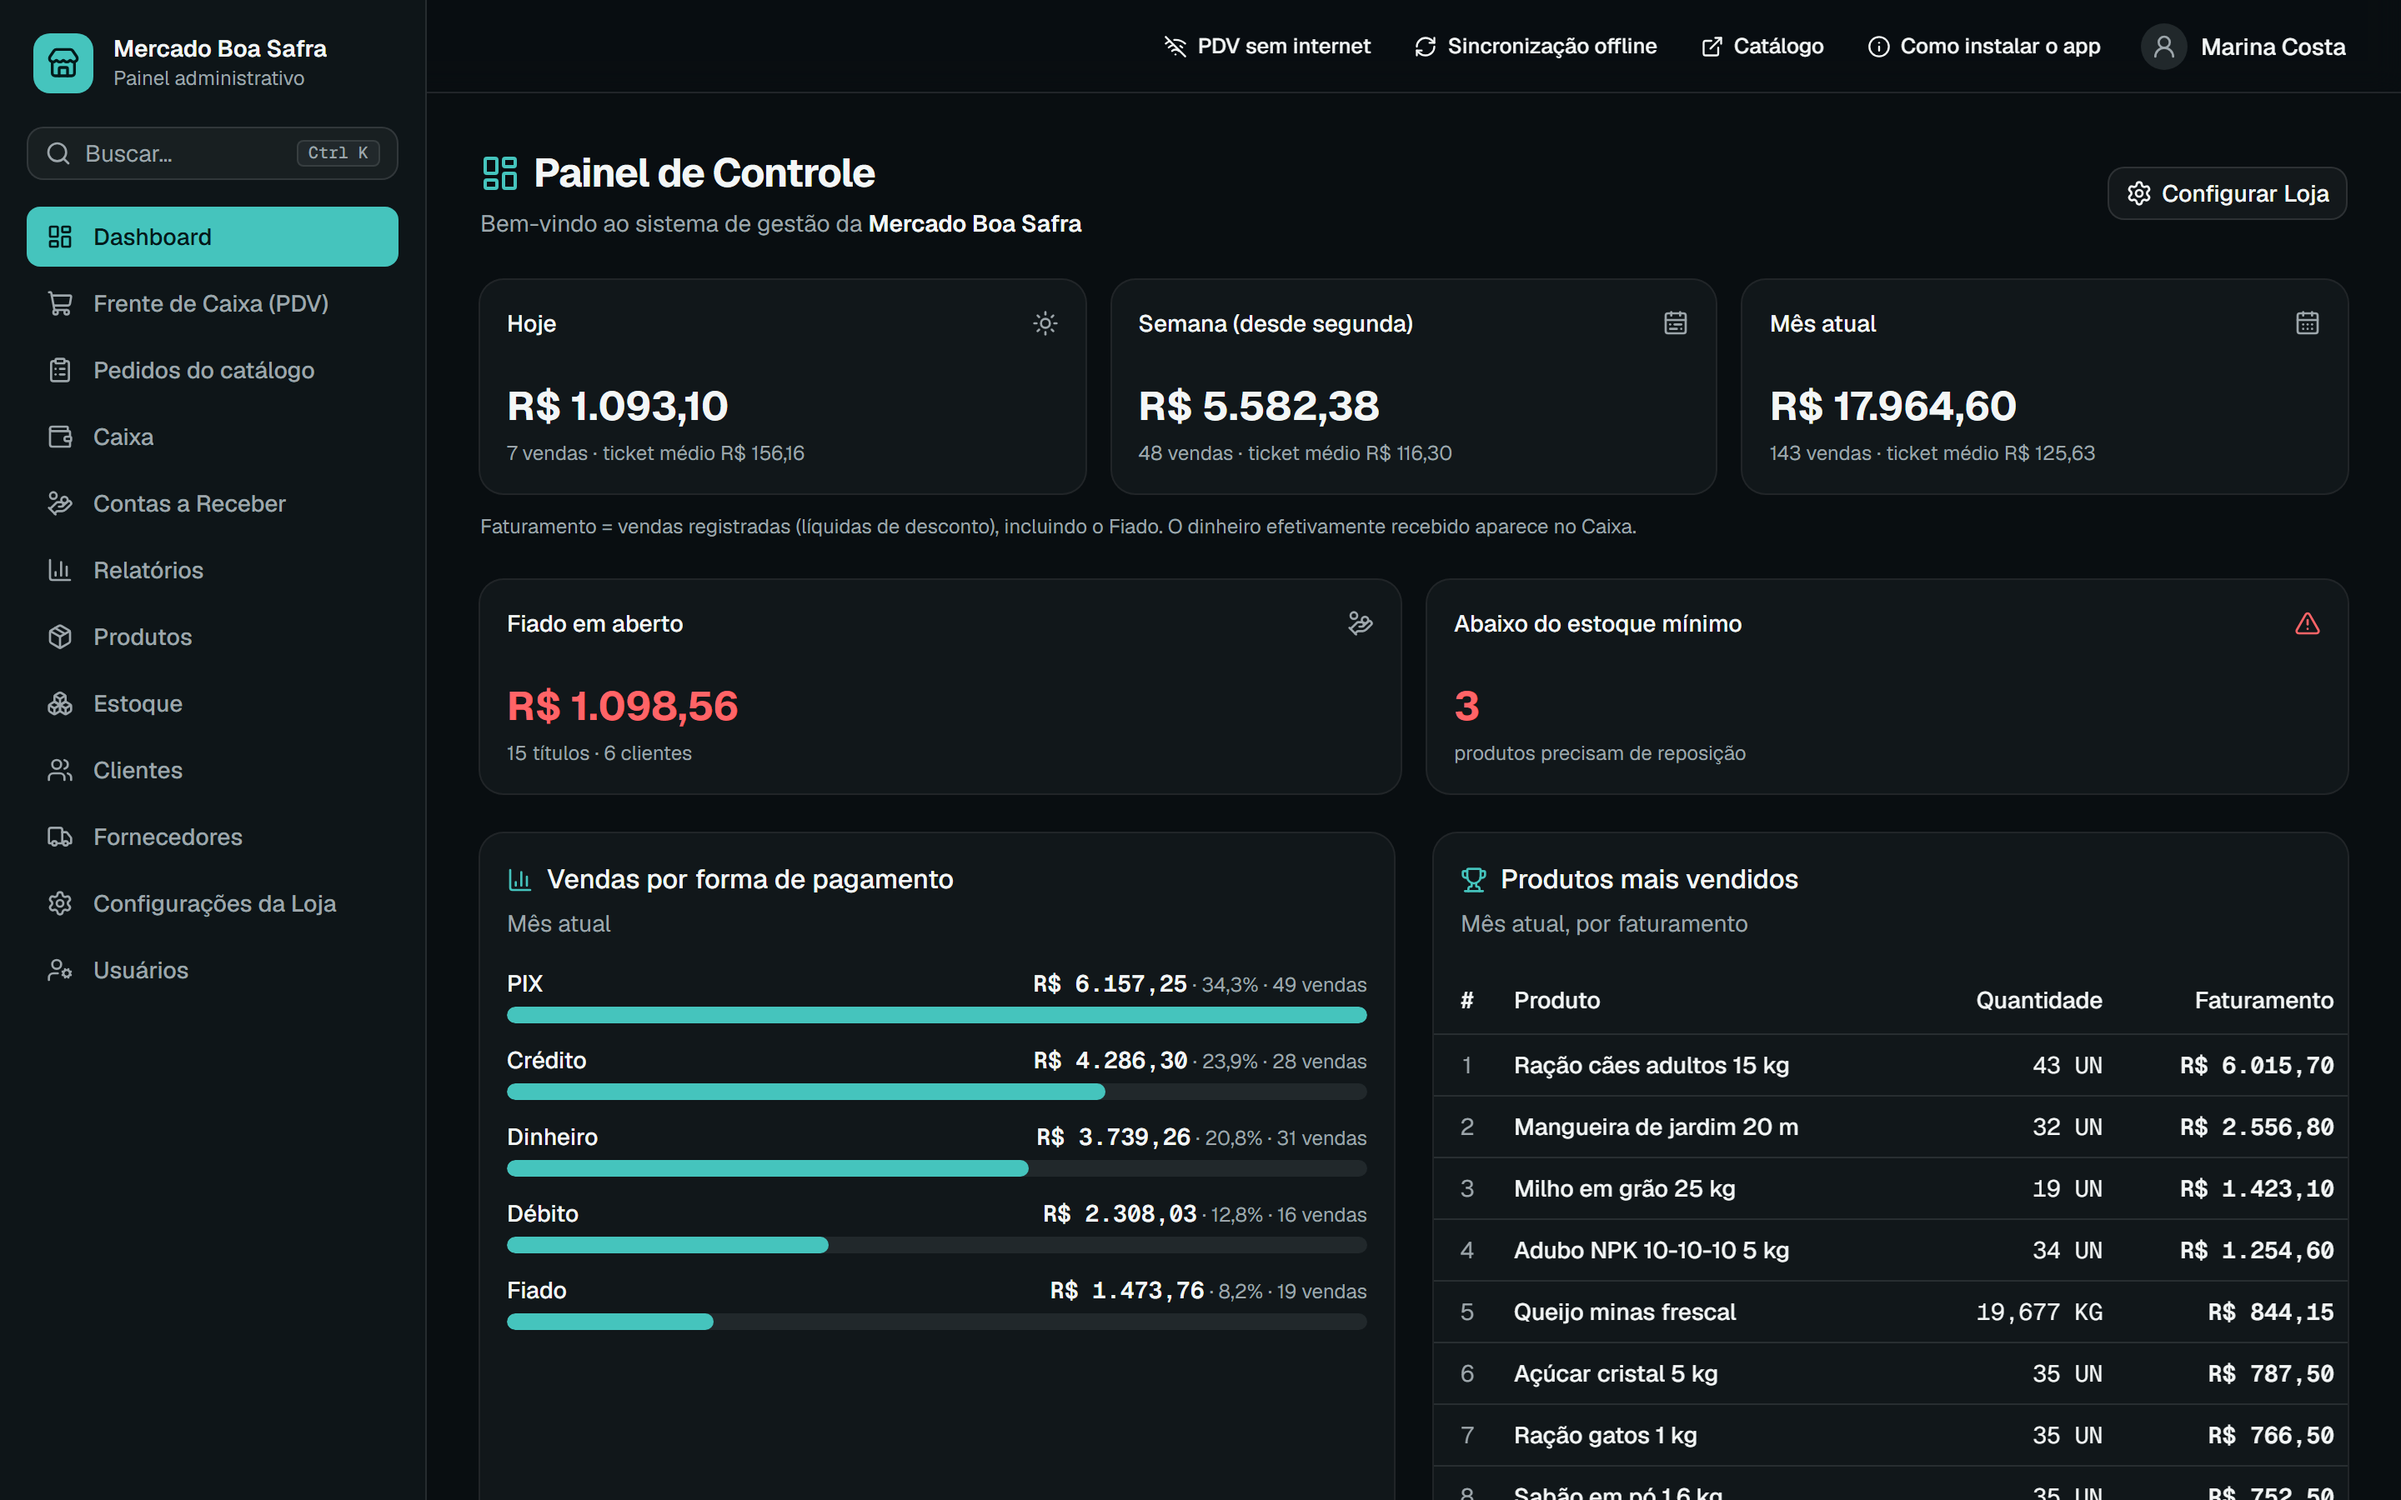
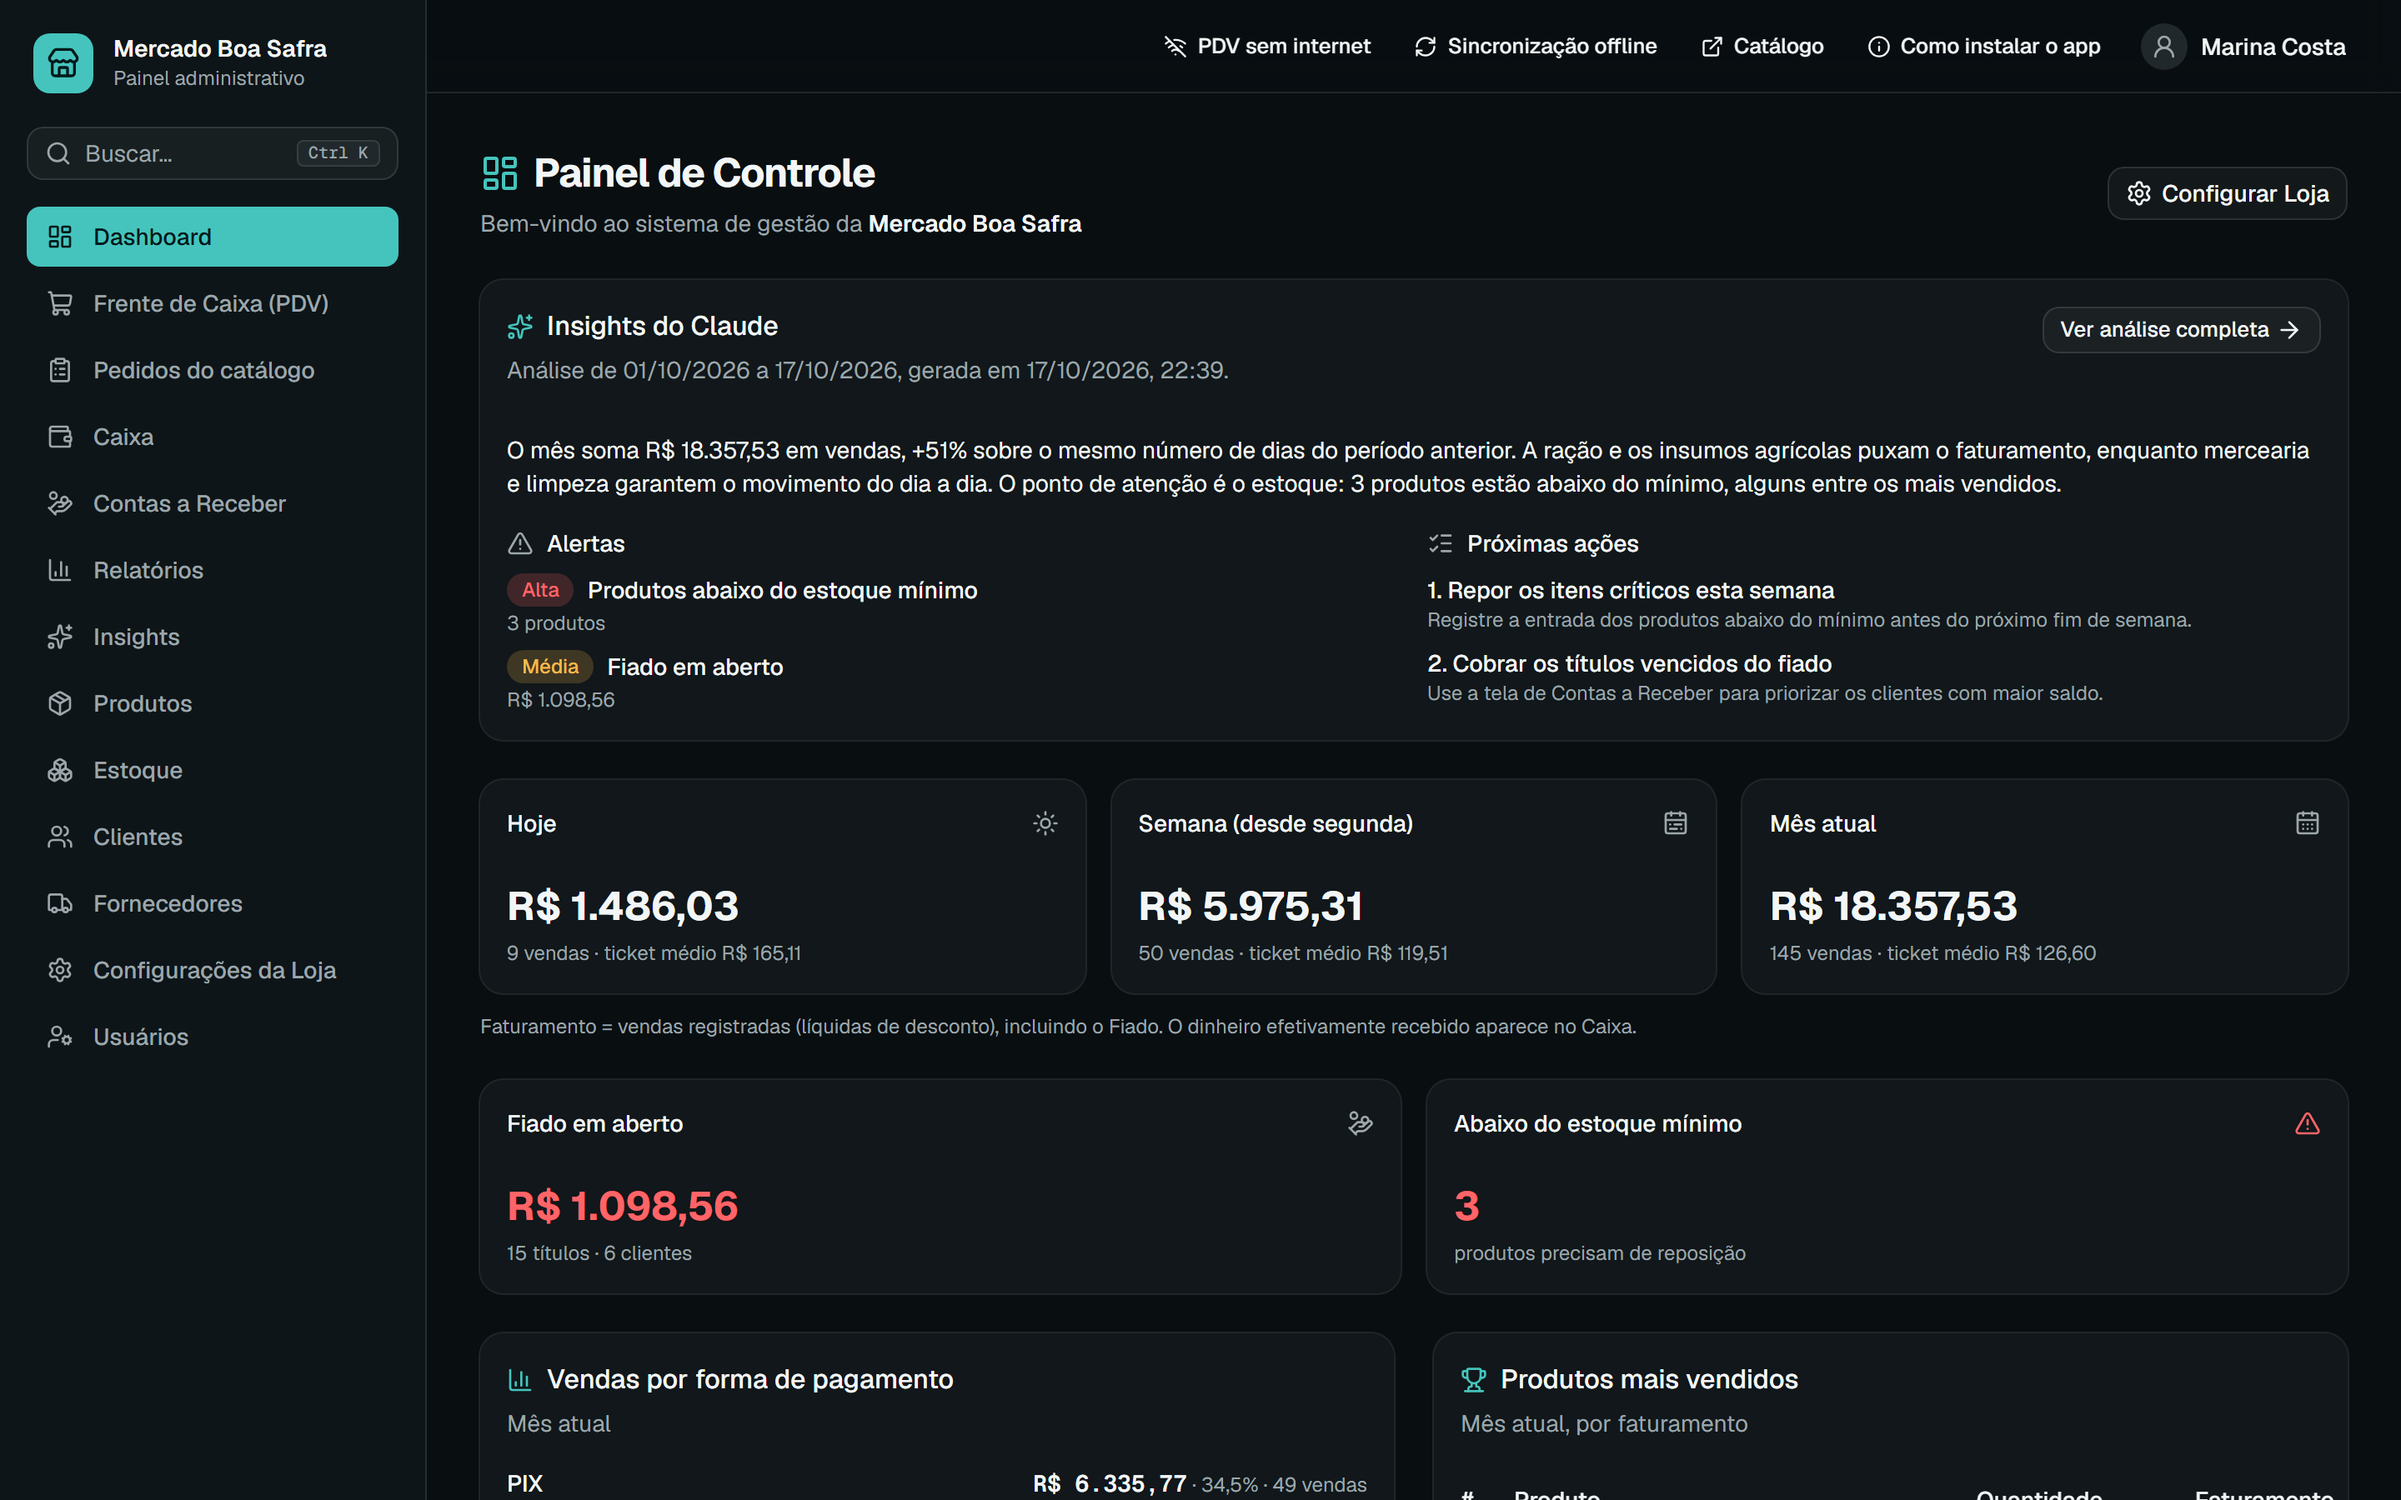
feat(landing): insights com IA (Claude) nas funcionalidades e no FAQ
- Nova linha "Insights com IA" com captura real da tela de Insights
  (resumo, alertas, destaques, oportunidades e ações sugeridas)
- Perfil Gerente e FAQ citam os insights; o FAQ explica a chave da loja,
  o custo estimado e que o Claude só recebe números agregados
- Seed da demonstração grava um relatório coerente com os números da loja
  (chave fictícia, nenhuma chamada ao Claude); capturas refeitas para
  incluir o menu Insights e o cartão de insights do Dashboard

diff --git a/tests/screenshots/support/showcase.ts b/tests/screenshots/support/showcase.ts
@@ -631,6 +631,142 @@ export async function seedShowcase() {
       },
     });
   }
+
+  await seedInsightReport(admin.id);
 }
 
-/** Tema fixo antes de qualquer script da página (next-themes lê o localStorage). */
+const brl = (value: number) =>
+  value.toLocaleString("pt-BR", { style: "currency", currency: "BRL" });
+const pct = (value: number) =>
+  `${value >= 0 ? "+" : ""}${value.toLocaleString("pt-BR", { maximumFractionDigits: 1 })}%`;
+
+/** Dia da loja ("YYYY-MM-DD") no fuso de São Paulo. */
+const dayKey = (date: Date) =>
+  new Intl.DateTimeFormat("en-CA", { timeZone: "America/Sao_Paulo" }).format(date);
+
+/**
+ * Relatório de insights (issue #113) do mês atual, como o Claude grava em BusinessInsight. Os
+ * números saem do próprio seed; a chave da API é fictícia (só marca a loja como configurada, nenhuma
+ * chamada é feita).
+ */
+async function seedInsightReport(userId: string) {
+  const now = new Date();
+  const monthStart = new Date(now.getFullYear(), now.getMonth(), 1);
+  const span = now.getTime() - monthStart.getTime();
+  const previousStart = new Date(monthStart.getTime() - span);
+  const sum = async (from: Date, to: Date) =>
+    Number(
+      (
+        await db.sale.aggregate({
+          where: { occurredAt: { gte: from, lt: to }, reversedAt: null },
+          _sum: { total: true },
+          _count: true,
+        })
+      )._sum.total ?? 0,
+    );
+  const [current, previous] = await Promise.all([
+    sum(monthStart, now),
+    sum(previousStart, monthStart),
+  ]);
+  const growth = previous > 0 ? ((current - previous) / previous) * 100 : 0;
+
+  const top = await db.saleItem.groupBy({
+    by: ["productId"],
+    where: { sale: { occurredAt: { gte: monthStart }, reversedAt: null } },
+    _sum: { subtotal: true },
+    orderBy: { _sum: { subtotal: "desc" } },
+    take: 1,
+  });
+  const topProduct = await db.product.findUniqueOrThrow({ where: { id: top[0].productId } });
+  const topShare = (Number(top[0]._sum.subtotal) / current) * 100;
+
+  const products = await db.product.findMany({ where: { deletedAt: null } });
+  const low = products.filter((p) => Number(p.currentStock) < Number(p.minStock));
+  const openReceivables = await db.receivable.findMany({
+    where: { status: { in: ["OPEN", "PARTIAL"] } },
+  });
+  const openAmount = openReceivables.reduce(
+    (total, r) => total + Number(r.amount) - Number(r.paidAmount),
+    0,
+  );
+
+  const content = {
+    resumo: `O mês soma ${brl(current)} em vendas, ${pct(growth)} sobre o mesmo número de dias do período anterior. A ração e os insumos agrícolas puxam o faturamento, enquanto mercearia e limpeza garantem o movimento do dia a dia. O ponto de atenção é o estoque: ${low.length} produtos estão abaixo do mínimo, alguns entre os mais vendidos.`,
+    destaques: [
+      {
+        titulo: `${topProduct.name} lidera o faturamento`,
+        explicacao:
+          "É o item que mais gera receita no mês, com ticket alto e saída constante, inclusive nos pedidos do catálogo.",
+        indicador: `${pct(topShare).replace("+", "")} do faturamento`,
+      },
+      {
+        titulo: "Fim de semana concentra as vendas",
+        explicacao:
+          "Sábados e domingos vendem bem mais que os dias úteis; vale reforçar a equipe e o troco nesses dias.",
+        indicador: "≈ 1,7× mais vendas",
+      },
+    ],
+    alertas: [
+      {
+        titulo: "Produtos abaixo do estoque mínimo",
+        explicacao: `${low
+          .map((p) => p.name)
+          .slice(0, 3)
+          .join(", ")} estão abaixo do mínimo e podem faltar antes da próxima entrada.`,
+        indicador: `${low.length} produtos`,
+        gravidade: "alta" as const,
+      },
+      {
+        titulo: "Fiado em aberto",
+        explicacao:
+          "Parte das vendas no fiado segue sem pagamento; títulos antigos merecem um contato com o cliente.",
+        indicador: brl(openAmount),
+        gravidade: "media" as const,
+      },
+    ],
+    oportunidades: [
+      {
+        titulo: "Combo agro para os sítios",
+        explicacao:
+          "Milho, adubo e arame aparecem juntos nas compras de clientes rurais; um combo com desconto pode aumentar o ticket.",
+        indicador: "3 itens recorrentes",
+      },
+    ],
+    acoesSugeridas: [
+      {
+        titulo: "Repor os itens críticos esta semana",
+        explicacao:
+          "Registre a entrada dos produtos abaixo do mínimo antes do próximo fim de semana.",
+        indicador: `${low.length} produtos`,
+      },
+      {
+        titulo: "Cobrar os títulos vencidos do fiado",
+        explicacao: "Use a tela de Contas a Receber para priorizar os clientes com maior saldo.",
+        indicador: brl(openAmount),
+      },
+    ],
+  };
+
+  await db.storeSettings.update({
+    where: { id: "default" },
+    data: {
+      anthropicApiKeyEnc: "demo-chave-ficticia",
+      anthropicApiKeyHint: "demo",
+      anthropicApiKeyUpdatedAt: now,
+    },
+  });
+  await db.businessInsight.create({
+    data: {
+      kind: "REPORT",
+      periodFrom: dayKey(monthStart),
+      periodTo: dayKey(now),
+      content,
+      model: "claude-haiku-5-5",
+      inputTokens: 6200,
+      outputTokens: 1100,
+      costEstimate: new Prisma.Decimal("0.0117"),
+      userId,
+      createdAt: new Date(now.getTime() - 25 * 60_000),
+    },
+  });
+}

diff --git a/src/components/landing/content.ts b/src/components/landing/content.ts
@@ -11,6 +11,7 @@ import {
   ScanBarcode,
   ShieldCheck,
   Smartphone,
+  Sparkles,
   Truck,
   Users,
   type LucideIcon,
@@ -123,6 +124,21 @@ export const FEATURES: Feature[] = [
     shot: SCREENSHOTS.relatorios,
   },
   {
+    id: "insights",
+    icon: Sparkles,
+    eyebrow: "Insights com IA",
+    title: "Uma análise do mês escrita pelo Claude",
+    description:
+      "Escolha o período e o Claude lê os números da loja: compara com o período anterior e aponta o que vai bem, o que merece atenção e o que fazer a seguir.",
+    bullets: [
+      "Resumo, alertas por gravidade, destaques, oportunidades e ações sugeridas",
+      "Perguntas livres sobre o período, como “o que mais vendeu no fim de semana?”",
+      "Os insights mais importantes aparecem no Dashboard",
+      "Usa a chave da API da própria loja, com custo estimado e histórico sem nova cobrança",
+    ],
+    shot: SCREENSHOTS.insights,
+  },
+  {
     id: "fiado",
     icon: HandCoins,
     eyebrow: "Contas a receber",
@@ -187,7 +203,7 @@ export const ROLES = [
     icon: BarChart3,
     description: "Cuida da operação do dia a dia.",
     can: [
-      "Painel, relatórios e estorno de vendas",
+      "Painel, relatórios, insights e estorno de vendas",
       "Produtos, estoque e fornecedores",
       "Caixas dos operadores e conciliação offline",
     ],
@@ -257,6 +273,11 @@ export const FAQ = [
     question: "Como o cliente faz um pedido pelo catálogo?",
     answer:
       "Ele abre o catálogo público da loja, escolhe os produtos e envia o pedido pelo WhatsApp da loja. O link do pedido abre no painel, onde a equipe registra o pedido e o converte em venda no PDV.",
+  },
+  {
+    question: "Como funcionam os insights com IA?",
+    answer:
+      "O administrador cadastra a chave da API da Anthropic da loja nas configurações. Gerentes e administradores geram análises de qualquer período ou fazem perguntas; o Claude recebe só números agregados e nomes de produtos, nunca dados de clientes, e cada análise mostra o custo estimado. Reabrir uma análise do histórico não gera nova cobrança.",
   },
   {
     question: "Que tipo de loja pode usar?",

diff --git a/tests/screenshots/capture.spec.ts b/tests/screenshots/capture.spec.ts
@@ -90,6 +90,30 @@ test("demais telas do painel", async ({ context, page }) => {
   }
 });
 
+test("insights do Claude", async ({ context, page }) => {
+  desktopOnly();
+  await useTheme(context, page, "light");
+  await login(context, ADMIN_EMAIL);
+  await page.goto("/admin/insights");
+  await expect(page.getByRole("heading", { level: 1 })).toBeVisible();
+  // Reabre o relatório gravado no seed (nenhuma chamada ao Claude)
+  await page
+    .getByRole("button", { name: /^Análise/ })
+    .first()
+    .click();
+  const summary = page.getByText("Resumo do período", { exact: true });
+  await expect(summary).toBeVisible();
+  // Resumo, alertas e ações no quadro, logo abaixo da barra superior
+  await page.evaluate(() => {
+    const el = [...document.querySelectorAll("*")].find(
+      (node) => node.textContent === "Resumo do período" && node.children.length > 0,
+    );
+    const card = el?.closest("[data-slot=card]") ?? el;
+    if (card) window.scrollBy(0, card.getBoundingClientRect().top - 100);
+  });
+  await shoot(page, "insights");
+});
+
 test("PDV sem internet", async ({ context, page }) => {
   desktopOnly();
   await useTheme(context, page, "light");

diff --git a/src/components/landing/screenshots.ts b/src/components/landing/screenshots.ts
@@ -12,6 +12,7 @@ import pdvOffline from "./screenshots/pdv-offline.png";
 import pdv from "./screenshots/pdv.png";
 import pedidos from "./screenshots/pedidos.png";
 import produtos from "./screenshots/produtos.png";
+import insights from "./screenshots/insights.png";
 import relatorios from "./screenshots/relatorios.png";
 
 // Capturas reais do sistema com uma loja fictícia, geradas por `pnpm screenshots`
@@ -51,6 +52,10 @@ export const SCREENSHOTS = {
   relatorios: {
     src: relatorios,
     alt: "Relatório de vendas filtrado por período e operador, com totais por forma de pagamento",
+  },
+  insights: {
+    src: insights,
+    alt: "Insights do Claude com resumo do mês, alertas de estoque e fiado, destaques, oportunidades e ações sugeridas",
   },
   contasAReceber: {
     src: contasAReceber,
